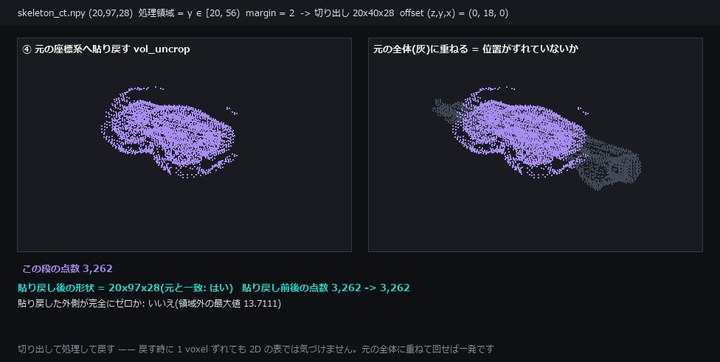
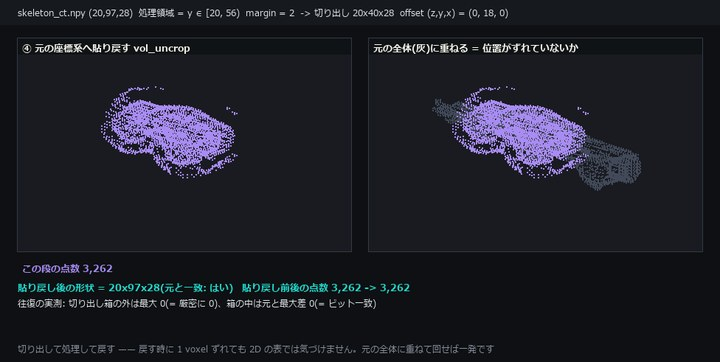
auto: gen_wingstudio_gallery.py 編集前 (2026-09-02 02:21)

Changed region(s): [[0.0, 0.8204, 0.5194, 0.8508], [0.5194, 0.1215, 0.825, 0.1519], [0.0306, 0.1215, 0.275, 0.1519]]

diff --git a/tools/gen_wingstudio_gallery.py b/tools/gen_wingstudio_gallery.py
@@ -1219,7 +1219,8 @@ def ex_crop3d():
     facts = {"volume_shape": [D, Hh, Ww], "crop_shape": [int(s) for s in part.shape],
              "offset": [int(o) for o in off], "domain": "y in [20, 56)",
              "uncrop_shape_matches": bool(same_shape),
-             "outside_max_after_uncrop": float(full[domain < 0.5].max()),
+             "outside_box_max_after_uncrop": outside_max,
+             "roundtrip_max_abs_error": roundtrip_err,
              "n_points": {"all": int(len(P_all)), "crop": int(len(P_part)),
                           "processed": int(n_proc), "pasted": int(n_back)},
              "frames": len(stages) * per}
